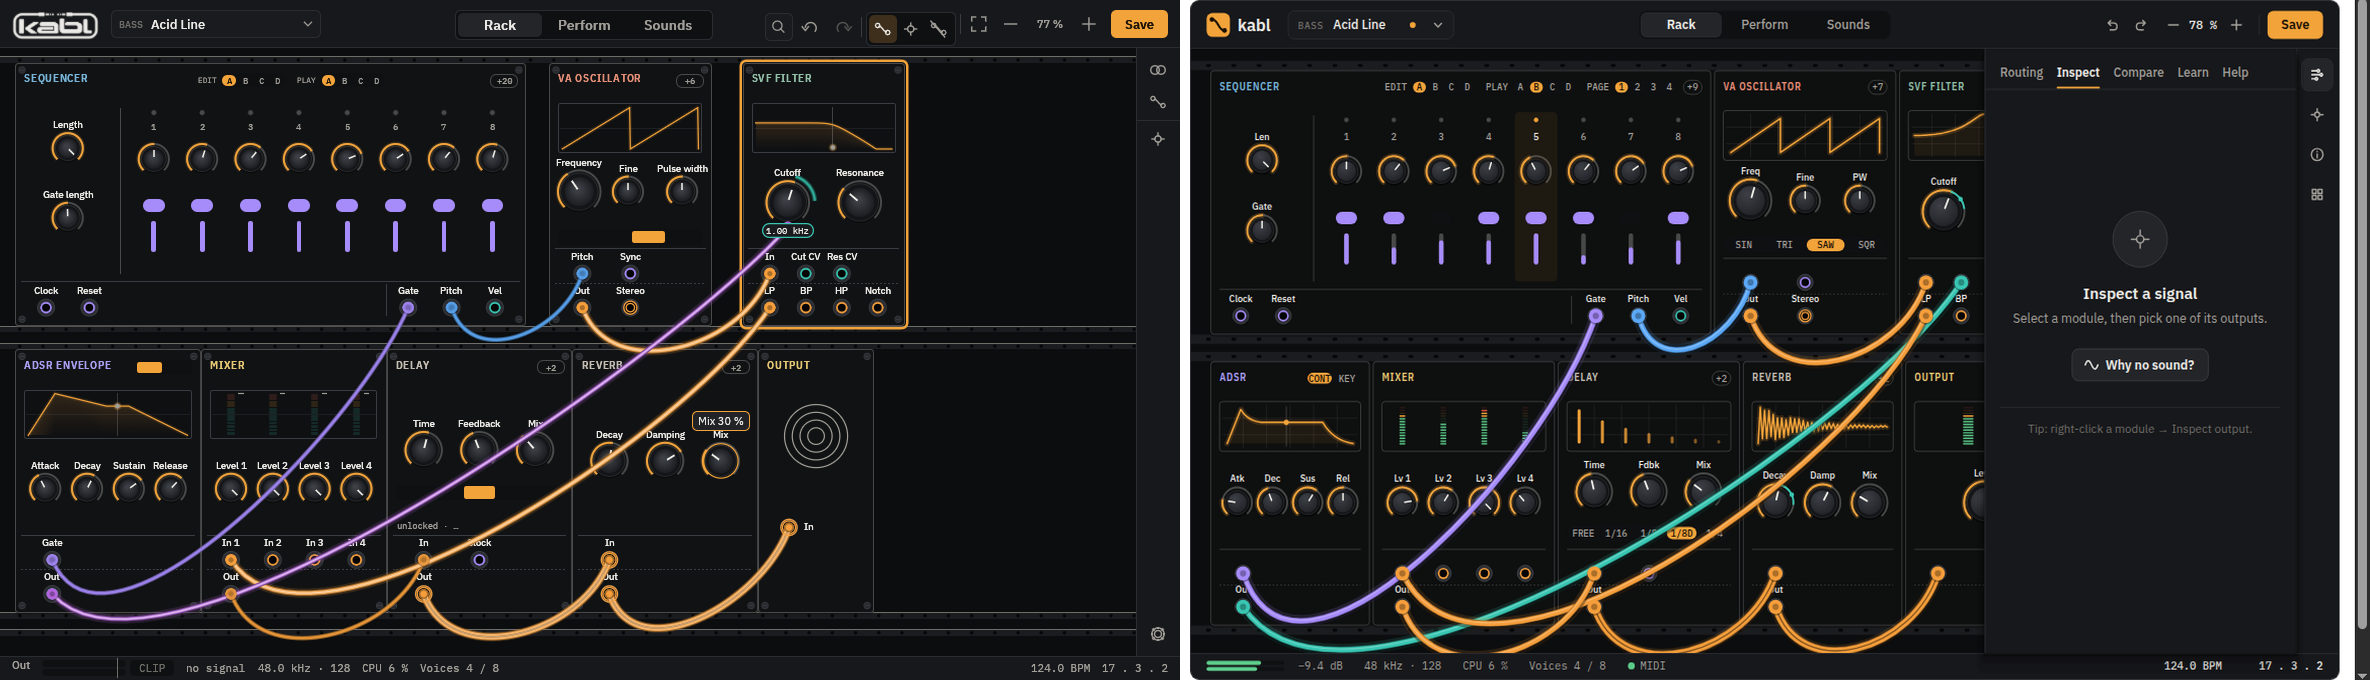
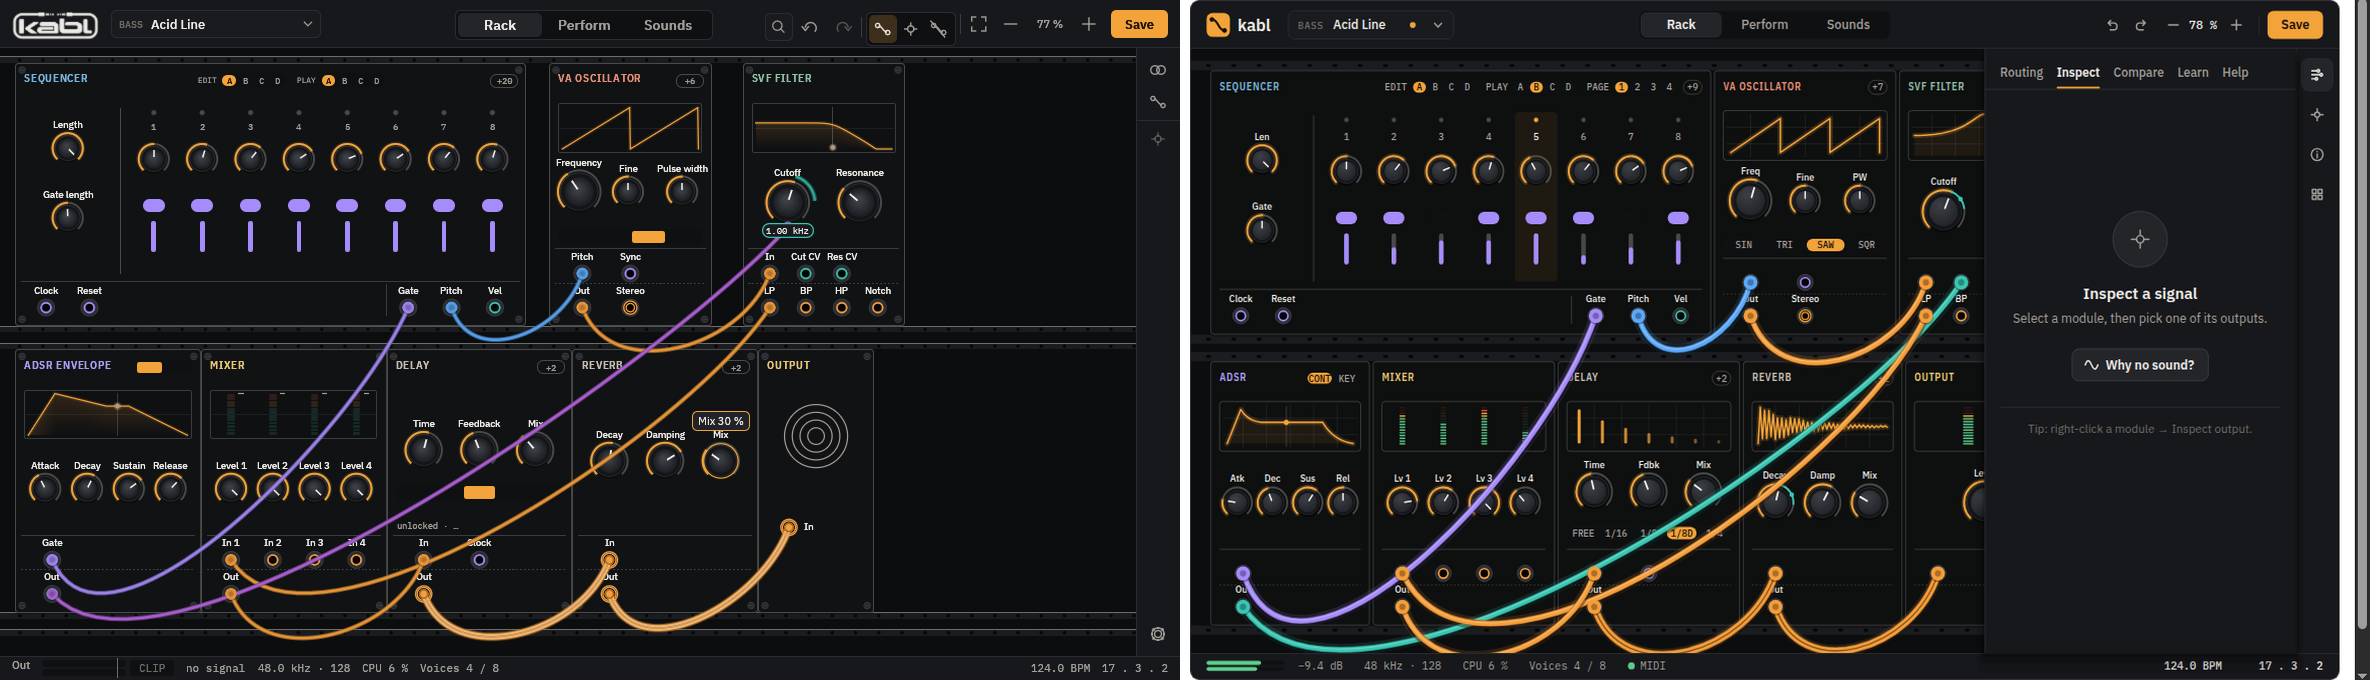
G4 Inspect empty state, Learn cards and the Show in rack card match the mockup
Inspect with nothing selected shows the well, title, line, Why no sound? button, rule and tip at the mockup's offsets. Learn recipes are 72 px cards with the step count. The Explain Show card is a clickable 62 px card at the end of the panel; the Explain scroll area takes 80 percent of the drawer and the explain tests use taller windows so the card is in view. Merges the empty-rack branch for the new empty_state. Sheets regenerated.

diff --git a/crates/ui/tests/explain.rs b/crates/ui/tests/explain.rs
@@ -228,7 +228,7 @@ fn a_macro_card_lists_its_real_destinations_and_reveals_an_off_face_one() {
 
 #[test]
 fn a_direct_pin_reaches_its_exact_parameter() {
-    let mut h = H::new("palette/pad", 1440.0, 900.0);
+    let mut h = H::new("palette/pad", 1440.0, 1800.0);
     let before = h.snapshot();
     h.click("pexplain:8.attack_ms");
     h.click("explain-show:8.attack_ms");
@@ -245,7 +245,7 @@ fn a_direct_pin_reaches_its_exact_parameter() {
 
 #[test]
 fn the_explanation_follows_route_edits_and_undo() {
-    let mut h = H::new("palette/pad", 1440.0, 900.0);
+    let mut h = H::new("palette/pad", 1440.0, 1800.0);
     h.click("pexplain:1.m1");
     let dests = |h: &H| explain::destinations(h.editor.state(), MACROS, "m1").0;
     assert_eq!(
@@ -302,7 +302,7 @@ fn param(h: &H, id: ModuleId, name: &str) -> &'static kabl_modules::ParamInfo {
 
 #[test]
 fn a_macro_without_routes_says_so_and_duplicate_labels_stay_distinct() {
-    let mut h = H::new("palette/pad", 1440.0, 900.0);
+    let mut h = H::new("palette/pad", 1440.0, 1800.0);
     let m = h
         .editor
         .add_module("macro", kabl_core::Vec2 { x: 0.0, y: 900.0 });
@@ -438,7 +438,7 @@ fn base_and_modulation_are_told_apart_with_units() {
 
 #[test]
 fn edits_from_perform_and_rack_are_one_state_while_explained() {
-    let mut h = H::new("init-keyboard", 1440.0, 900.0);
+    let mut h = H::new("init-keyboard", 1440.0, 1800.0);
     h.click("pexplain:3.cutoff_hz");
     h.click("explain-show:3.cutoff_hz");
     // The rack's Base field and the card write the same stored value.
@@ -461,7 +461,7 @@ fn edits_from_perform_and_rack_are_one_state_while_explained() {
 
 #[test]
 fn module_removal_and_patch_replacement_invalidate_safely() {
-    let mut h = H::new("palette/pad", 1440.0, 900.0);
+    let mut h = H::new("palette/pad", 1440.0, 1800.0);
     h.click("pexplain:1.m1");
     h.click("explain-dest:28");
     // Delete the ladder: its routes and the target go; the panel keeps drawing.
@@ -502,7 +502,7 @@ fn module_removal_and_patch_replacement_invalidate_safely() {
 
 #[test]
 fn escape_and_text_fields_keep_their_priority() {
-    let mut h = H::new("palette/pad", 1440.0, 900.0);
+    let mut h = H::new("palette/pad", 1440.0, 1800.0);
     h.click("pexplain:1.m1");
     // Escape first cancels a pending MIDI learn, then closes the explanation.
     h.ui.learn = Some((MACROS, "m2".into()));
@@ -530,7 +530,7 @@ fn escape_and_text_fields_keep_their_priority() {
 
 #[test]
 fn inline_help_is_opt_in_and_changes_nothing() {
-    let mut h = H::new("init-keyboard", 1440.0, 900.0);
+    let mut h = H::new("init-keyboard", 1440.0, 1800.0);
     let before = h.snapshot();
     assert!(!h.ui.explain.help);
     h.ui.drawer_more = true;
@@ -688,7 +688,7 @@ fn write_help_coverage() {
 #[test]
 fn a_direct_pin_to_an_off_face_control_reveals_it() {
     // palette/lead "Glide time" is MIDI In #2 glide_ms, an advanced (off-face) control.
-    let mut h = H::new("palette/lead", 1280.0, 800.0);
+    let mut h = H::new("palette/lead", 1280.0, 1600.0);
     let before = h.snapshot();
     assert!(
         !h.ui.hits.contains_key("knob:2.glide_ms"),
@@ -744,7 +744,7 @@ fn transport_acts_on_sequencers_behind_a_divider() {
 
 #[test]
 fn edits_through_the_card_and_the_rack_agree_while_explained() {
-    let mut h = H::new("init-keyboard", 1440.0, 900.0);
+    let mut h = H::new("init-keyboard", 1440.0, 1800.0);
     h.click("pexplain:3.cutoff_hz");
     let p = param(&h, 3, "cutoff_hz");
     let base = |h: &H| routing::base_value(h.editor.state(), 3, p);
@@ -774,7 +774,7 @@ fn edits_through_the_card_and_the_rack_agree_while_explained() {
 
 #[test]
 fn escape_with_a_menu_open_closes_only_the_menu() {
-    let mut h = H::new("palette/pad", 1440.0, 900.0);
+    let mut h = H::new("palette/pad", 1440.0, 1800.0);
     h.click("pexplain:1.m1");
     h.click("pmenu:1.m1");
     assert!(egui::Popup::is_any_open(&h.ctx), "the card menu is open");
@@ -788,7 +788,7 @@ fn escape_with_a_menu_open_closes_only_the_menu() {
 
 #[test]
 fn a_card_rename_commits_when_you_click_elsewhere() {
-    let mut h = H::new("palette/pad", 1440.0, 900.0);
+    let mut h = H::new("palette/pad", 1440.0, 1800.0);
     h.ui.renaming = Some((MACROS, "m1".into(), "Heat".into()));
     h.frame();
     h.frame();
@@ -807,7 +807,7 @@ fn a_card_rename_commits_when_you_click_elsewhere() {
 fn a_save_dialog_over_an_explanation_keeps_escape_and_the_document() {
     // D01's Save As dialog (D01-R1 repaired) takes Escape first; the explanation stays, and
     // explaining never makes the sound count as unsaved.
-    let mut h = H::new("palette/pad", 1440.0, 900.0);
+    let mut h = H::new("palette/pad", 1440.0, 1800.0);
     let before = h.snapshot();
     h.click("pexplain:1.m1");
     h.click("explain-dest:29");

diff --git a/crates/ui/src/recipes.rs b/crates/ui/src/recipes.rs
@@ -427,19 +427,71 @@ pub fn panel(editor: &mut PatchEditor, ui_state: &mut UiState, ui: &mut egui::Ui
         para(ui, n);
     }
     let Some(a) = ui_state.recipes.active.clone() else {
-        weak(
+        crate::kit::label(
             ui,
-            "Optional. Each opens its own patch (you are asked first if your sound has unsaved \
-             changes). Leave any time: your patch stays as it is.",
+            &st,
+            crate::style::Role::Body,
+            crate::kit::Tone::Text2,
+            "Each opens in its own patch. Yours stays as it is.",
+        )
+        .on_hover_text(
+            "Optional. You are asked first if your sound has unsaved changes. Leave any time: \
+             your patch stays as it is.",
         );
+        ui.add_space(8.0);
         for (i, r) in RECIPES.iter().enumerate() {
-            ui.add_space(4.0);
-            let b = ui.add(kb(r.title.into())).on_hover_text(r.intent);
-            ui_state.record(format!("recipe:{}", r.key), b.rect);
-            if b.clicked() {
+            // g4-surfaces.html Learn card: 72 px, radius 8, title 14/600 at +26, line 12 at +48,
+            // step count in mono at the right.
+            let (rect, resp) = ui
+                .allocate_exact_size(egui::vec2(ui.available_width(), 72.0), egui::Sense::click());
+            let hover = resp.hovered();
+            let p = ui.painter();
+            p.rect(
+                rect,
+                egui::CornerRadius::same(8),
+                if hover {
+                    st.roles.line
+                } else {
+                    st.roles.raised
+                },
+                egui::Stroke::new(1.0, st.roles.line),
+                egui::StrokeKind::Inside,
+            );
+            let semi = crate::style::Font::SansSemibold.family(st.fonts_ready);
+            p.text(
+                rect.min + egui::vec2(12.0, 26.0 - 14.0 * 0.36),
+                egui::Align2::LEFT_CENTER,
+                r.title,
+                egui::FontId::new(14.0, semi),
+                st.roles.text,
+            );
+            let mut job = egui::text::LayoutJob::simple(
+                r.intent.to_string(),
+                egui::FontId::new(12.0, st.font(crate::style::Role::Body).family),
+                st.roles.text2,
+                rect.width() - 24.0,
+            );
+            job.wrap.max_rows = 1;
+            job.wrap.break_anywhere = true;
+            let galley = p.layout_job(job);
+            p.galley(
+                rect.min + egui::vec2(12.0, 48.0 - galley.size().y / 2.0 - 12.0 * 0.36 + 2.0),
+                galley,
+                st.roles.text2,
+            );
+            p.text(
+                egui::pos2(rect.max.x - 12.0, rect.min.y + 26.0 - 11.0 * 0.36),
+                egui::Align2::RIGHT_CENTER,
+                format!("{} steps", r.steps.len()),
+                st.font(crate::style::Role::Value),
+                st.roles.text3,
+            );
+            let resp = resp.on_hover_text(r.intent);
+            ui_state.record(format!("recipe:{}", r.key), rect);
+            if resp.clicked() {
                 start(editor, ui_state, i);
             }
-            weak(ui, r.intent);
+            ui.add_space(8.0);
         }
         return;
     };

diff --git a/crates/ui/src/explain.rs b/crates/ui/src/explain.rs
@@ -818,11 +818,6 @@ fn control(
         if let Some(h) = help::param_help(&kind, p.name) {
             para(ui, h);
         }
-        // Above the facts, not below: the drawer scrolls and Show must stay in reach.
-        ui.add_space(6.0);
-        crate::kit::g4::card(ui, &st, |ui| {
-            show_self(ui_state, ui);
-        });
         let range = help::range_text(&kind, p);
         let mut rows: Vec<(&str, String)> = Vec::new();
         let mut parts = range.split(" · ");
@@ -930,6 +925,60 @@ fn control(
                     }
                 });
             }
+        }
+        ui.add_space(8.0);
+        // g4-surfaces.html "Show in rack" card: 62 px, info icon, title 13/600, line 12.
+        let (rect, resp) =
+            ui.allocate_exact_size(egui::vec2(ui.available_width(), 62.0), egui::Sense::click());
+        let painter = ui.painter();
+        painter.rect(
+            rect,
+            egui::CornerRadius::same(8),
+            if resp.hovered() {
+                st.roles.line
+            } else {
+                st.roles.raised
+            },
+            egui::Stroke::new(1.0, st.roles.line),
+            egui::StrokeKind::Inside,
+        );
+        crate::kit::icon(
+            painter,
+            crate::kit::Ic::Info,
+            rect.min + egui::vec2(20.0, 20.0),
+            16.0,
+            st.roles.accent,
+        );
+        let semi = crate::style::Font::SansSemibold.family(st.fonts_ready);
+        painter.text(
+            rect.min + egui::vec2(36.0, 25.0 - 13.0 * 0.36),
+            egui::Align2::LEFT_CENTER,
+            "Show in rack",
+            egui::FontId::new(13.0, semi),
+            st.roles.text,
+        );
+        painter.text(
+            rect.min + egui::vec2(36.0, 44.0 - 12.0 * 0.36),
+            egui::Align2::LEFT_CENTER,
+            "Highlights the control and its cables.",
+            egui::FontId::new(12.0, st.font(crate::style::Role::Body).family),
+            st.roles.text3,
+        );
+        ui_state.record(format!("explain-show:{id}.{}", p.name), rect);
+        if resp
+            .on_hover_text("Bring it into view in the rack (no change to the sound)")
+            .clicked()
+        {
+            go(
+                editor,
+                ui_state,
+                Target::Control {
+                    id,
+                    param: p.name.to_string(),
+                    cable: None,
+                },
+                now,
+            );
         }
         selected_detail(editor.state(), ui_state, ui);
         return;

diff --git a/crates/ui/src/inspect.rs b/crates/ui/src/inspect.rs
@@ -1164,10 +1164,52 @@ pub fn panel(editor: &PatchEditor, ui_state: &mut UiState, ui: &mut egui::Ui, no
             }
         }
     } else {
-        weak(
+        // The mockup's empty state: well, title, line, then the Why button at +110, a rule at
+        // +168 and the tip at +194 (offsets from the well's centre).
+        let top = ui.cursor().top();
+        crate::kit::g4::empty_state(
             ui,
-            "Select a module in the rack to choose one of its outputs.",
+            &st,
+            crate::kit::Ic::Focus,
+            "Inspect a signal",
+            "Select a module, then pick one of its outputs.",
+            &[],
+            None,
         );
+        let c = egui::pos2(ui.min_rect().center().x, top + 28.0);
+        let open = ui_state.inspect.why;
+        let b = crate::kit::Button::new(&st, "Why no sound?")
+            .icon(crate::kit::Ic::Wave)
+            .g4(32.0)
+            .selected(open);
+        let w = b.width(ui).max(140.0);
+        let r = ui.put(
+            egui::Rect::from_min_size(egui::pos2(c.x - w / 2.0, c.y + 110.0), egui::vec2(w, 32.0)),
+            b.min_width(140.0),
+        );
+        ui_state.record("why".into(), r.rect);
+        if r.clicked() {
+            ui_state.inspect.why = !open;
+            log::debug!(target: "inspect", "why-no-sound open={}", !open);
+        }
+        let rule_y = c.y + 168.0;
+        ui.painter().hline(
+            ui.max_rect().x_range().shrink(16.0),
+            rule_y,
+            egui::Stroke::new(1.0, st.roles.line),
+        );
+        ui.painter().text(
+            egui::pos2(c.x, c.y + 194.0 - 12.0 * 0.36),
+            egui::Align2::CENTER_CENTER,
+            "Tip: right-click a module → Inspect output.",
+            egui::FontId::new(12.0, st.font(crate::style::Role::Body).family),
+            st.roles.text3,
+        );
+        ui.allocate_space(egui::vec2(ui.available_width(), 130.0));
+        if ui_state.inspect.why {
+            why_panel(editor, ui_state, ui, now);
+        }
+        return;
     }
 
     let status = ui_state.inspect.status(state, now);

diff --git a/crates/ui/src/lib.rs b/crates/ui/src/lib.rs
@@ -1052,7 +1052,7 @@ fn drawer(
     if ui_state.recipes.open {
         // Above the drawer's scrolling content, so Show (which scrolls the drawer
         // to the routes) never scrolls the recipe away.
-        let h = ui.available_height() * 0.65;
+        let h = ui.available_height() * 0.8;
         egui::ScrollArea::vertical()
             .id_salt("kabl-recipes")
             .max_height(h)
@@ -1064,7 +1064,7 @@ fn drawer(
     if ui_state.explain.is_open() {
         // Its own scroll area, at most about half the drawer: the module and
         // routing sections below stay in reach while it is open.
-        let h = ui.available_height() * 0.65;
+        let h = ui.available_height() * 0.8;
         egui::ScrollArea::vertical()
             .id_salt("kabl-explain")
             .max_height(h)

diff --git a/crates/ui/examples/chrome_capture.rs b/crates/ui/examples/chrome_capture.rs
@@ -318,6 +318,7 @@ impl App {
             }
         }
         if j.scene == "inspect" {
+            ui.selected_module = None;
             ui.inspect.open = true;
         }
         if j.scene == "learn" {
@@ -390,6 +391,9 @@ impl App {
             .iter()
             .find(|(_, m)| m.kind == "filter.svf")
             .map(|(&id, _)| id);
+        if j.scene == "inspect" {
+            ui.selected_module = None;
+        }
         if j.scene == "seq-pattern-editor" {
             // The mockup's state: editing A, B playing, step 5 under the playhead.
             let seq = self
